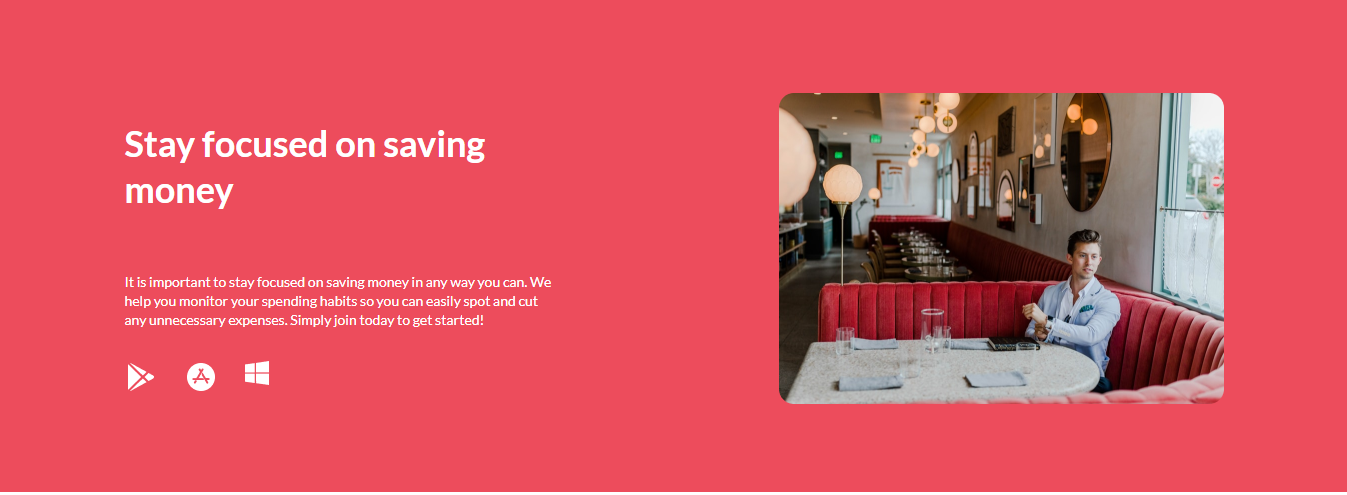
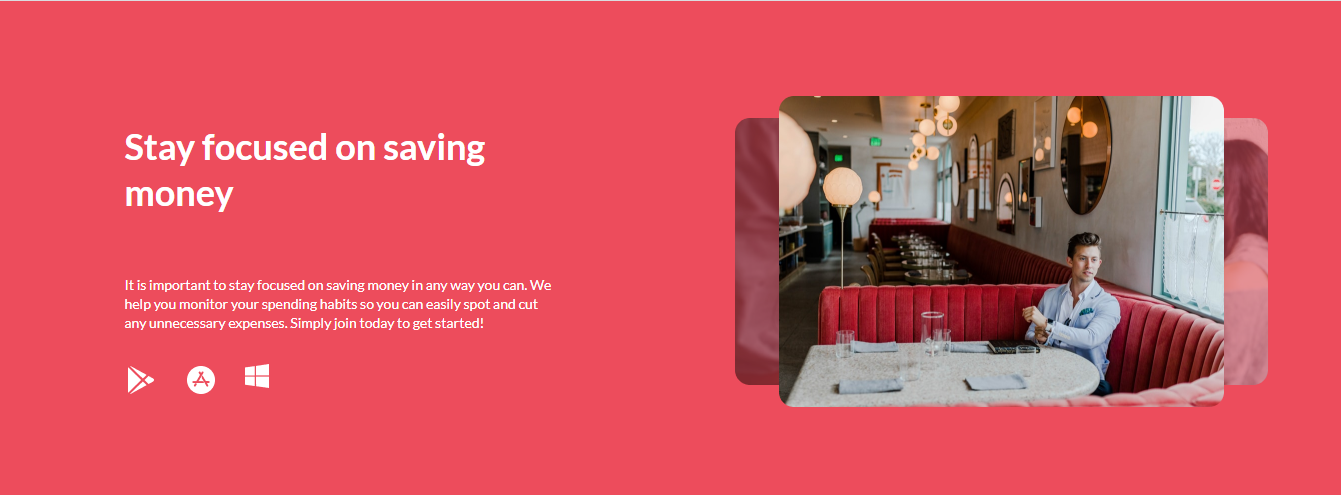
add cursor:pointer, change margin

diff --git a/HW5/style.css b/HW5/style.css
@@ -97,18 +97,18 @@ ul li {
   max-width: 445px;
   height: 160px;
   display: inline-block;
+  margin-top: 115px;
 }
 .contact_right-side {
   position: relative;
   left: 525px;
-  top: -115px;
+  top: -160px;
 }
 .contact_title {
   font-weight: 700;
   font-size: 36px;
   line-height: 1.2;
   color: #000000;
-  margin-top: 115px;
 }
 .contact_subtitle {
   color: #000000;
@@ -145,6 +145,7 @@ ul li {
   border: none;
   text-transform: uppercase;
   color: #ffffff;
+  cursor: pointer;
 }
 /*footer*/
 .footer-wrapper {
